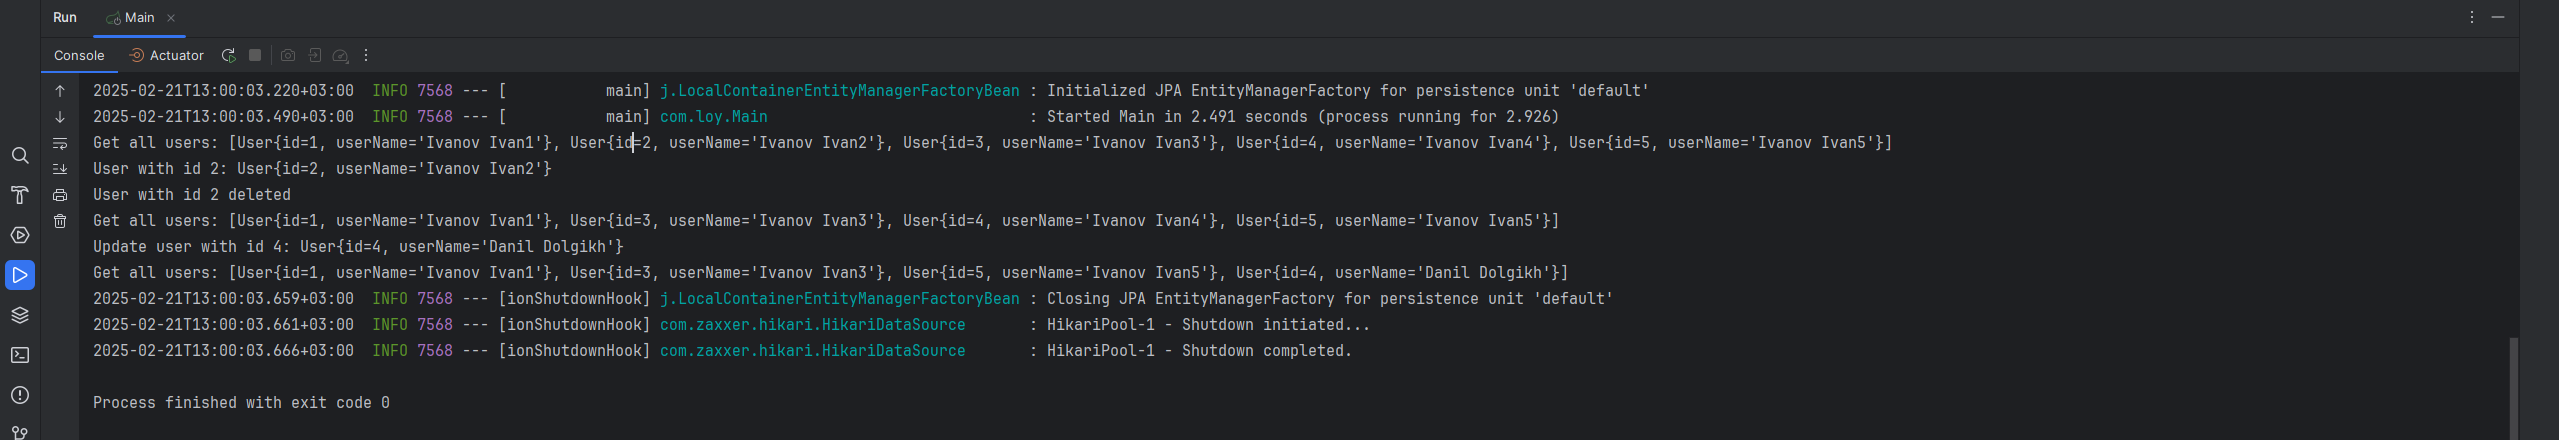
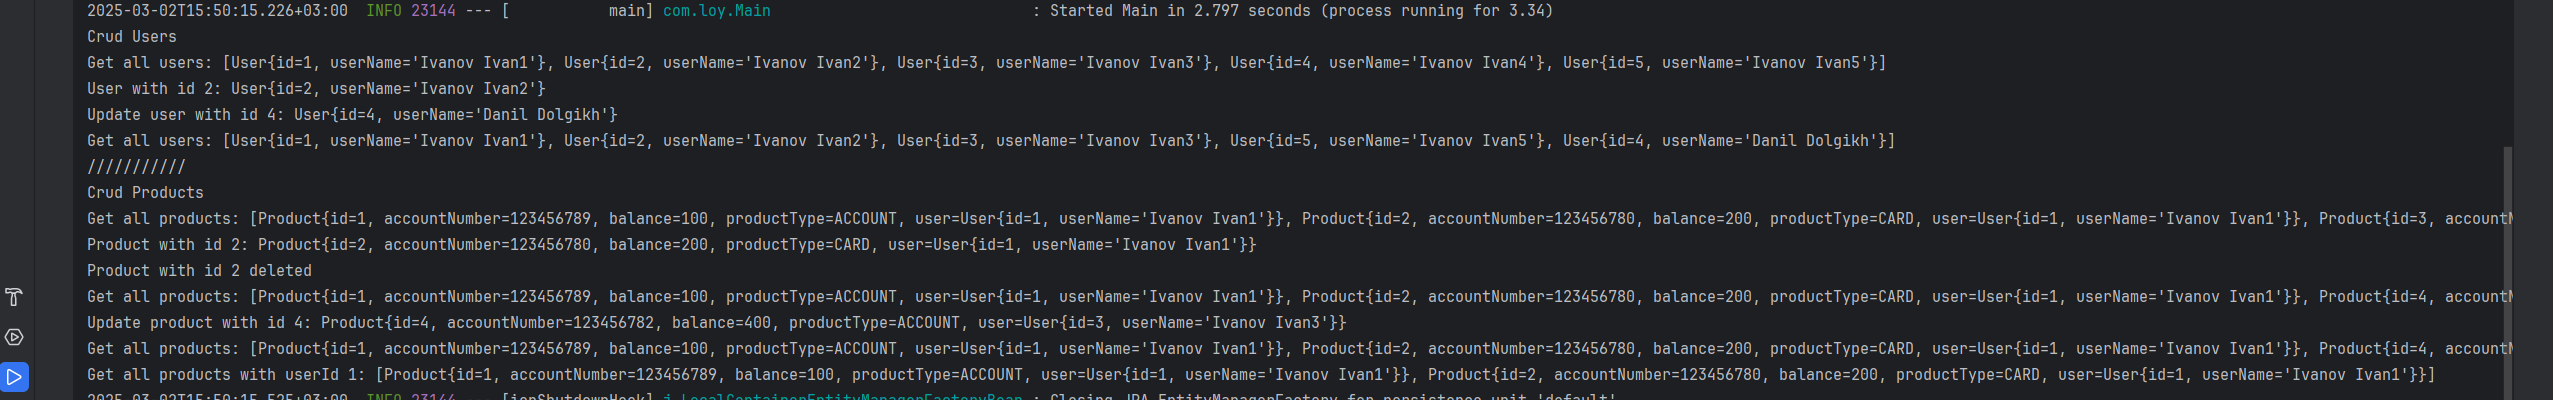
Add solve

diff --git a/sping-task/src/main/java/com/loy/Main.java b/sping-task/src/main/java/com/loy/Main.java
@@ -1,28 +1,46 @@
 package com.loy;
 
 
+import com.loy.model.Product;
+import com.loy.model.ProductType;
 import com.loy.model.User;
+import com.loy.service.ProductService;
 import com.loy.service.UserService;
 import lombok.RequiredArgsConstructor;
 import org.springframework.boot.CommandLineRunner;
 import org.springframework.boot.SpringApplication;
 import org.springframework.boot.autoconfigure.SpringBootApplication;
 
+import java.util.HashSet;
+
 @SpringBootApplication
 @RequiredArgsConstructor
 public class Main implements CommandLineRunner {
     private final UserService userService;
+    private final ProductService productService;
 
     public static void main(String[] args) {
         SpringApplication.run(Main.class, args);
     }
+
     public void run(String... args) {
+        System.out.println("Crud Users");
         System.out.println("Get all users: " + userService.getAllUsers());
         System.out.println("User with id 2: " + userService.getUser(2));
-        userService.deleteUser(new User(2L, "Ivanov Ivan2"));
-        System.out.println("User with id 2 deleted");
+        System.out.println("Update user with id 4: " + userService.updateUser(new User(4L, "Danil Dolgikh", new HashSet<>())));
         System.out.println("Get all users: " + userService.getAllUsers());
-        System.out.println("Update user with id 4: " + userService.updateUser(new User(4L, "Danil Dolgikh")));
-        System.out.println("Get all users: " + userService.getAllUsers());
+
+        System.out.println("///////////");
+
+        System.out.println("Crud Products");
+        System.out.println("Get all products: " + productService.getAllProducts());
+        System.out.println("Product with id 2: " + productService.getProduct(2));
+        productService.deleteProduct(new Product(3L, 123456780L, 300L, ProductType.ACCOUNT, new User(2L, "Ivanov Ivan2", new HashSet<>())));
+        System.out.println("Product with id 2 deleted");
+        System.out.println("Get all products: " + productService.getAllProducts());
+        System.out.println("Update product with id 4: " + productService.updateProduct(
+                new Product(4L, 123456782L, 400L, ProductType.ACCOUNT, new User(3L, "Ivanov Ivan3", new HashSet<>()))));
+        System.out.println("Get all products: " + productService.getAllProducts());
+        System.out.println("Get all products with userId 1: " + productService.getAllByUserId(1));
     }
 }

diff --git a/sping-task/src/main/java/com/loy/service/ProductService.java b/sping-task/src/main/java/com/loy/service/ProductService.java
@@ -1,0 +1,45 @@
+package com.loy.service;
+
+import com.loy.dao.ProductDao;
+import com.loy.model.Product;
+import lombok.RequiredArgsConstructor;
+import org.springframework.stereotype.Service;
+
+import java.util.List;
+
+@Service
+@RequiredArgsConstructor
+public class ProductService {
+    private final ProductDao productDao;
+
+    public Product createProduct(Product product) {
+        if (product.getId() != null) {
+            throw new IllegalArgumentException("When product create id must be null");
+        }
+        return productDao.save(product);
+    }
+
+    public Product getProduct(long id) {
+        return productDao.findById(id).orElseThrow(() -> new RuntimeException("Product with id: " + id + " not found"));
+    }
+
+    public List<Product> getAllByUserId(long userId) {
+        return productDao.findAllByUser_Id(userId);
+    }
+
+    public List<Product> getAllProducts() {
+        return productDao.findAll();
+    }
+
+    public Product updateProduct(Product product) {
+        if(product.getId() == null) {
+            throw new IllegalArgumentException("When product create id must not be null");
+        }
+        return productDao.save(product);
+    }
+
+    public void deleteProduct(Product product) {
+        productDao.delete(product);
+    }
+
+}

diff --git a/sping-task/src/main/java/com/loy/model/Product.java b/sping-task/src/main/java/com/loy/model/Product.java
@@ -1,0 +1,44 @@
+package com.loy.model;
+
+import jakarta.persistence.*;
+import lombok.AllArgsConstructor;
+import lombok.Getter;
+import lombok.NoArgsConstructor;
+import lombok.Setter;
+
+@NamedEntityGraph(
+        name = "Product.withUser",
+        attributeNodes = @NamedAttributeNode("user")
+)
+@Entity
+@Table(name = "products")
+@AllArgsConstructor
+@NoArgsConstructor
+@Getter
+@Setter
+public class Product {
+    @Id
+    @GeneratedValue(strategy = GenerationType.AUTO)
+    private Long id;
+    @Column(name = "account_number")
+    private Long accountNumber;
+    @Column(name = "balance")
+    private Long balance;
+    @Enumerated(EnumType.STRING)
+    @Column(name = "product_type")
+    private ProductType productType;
+    @ManyToOne
+    @JoinColumn(name = "user_id")
+    private User user;
+
+    @Override
+    public String toString() {
+        return "Product{" +
+                "id=" + id +
+                ", accountNumber=" + accountNumber +
+                ", balance=" + balance +
+                ", productType=" + productType +
+                ", user=" + user +
+                '}';
+    }
+}

diff --git a/sping-task/src/main/java/com/loy/dao/ProductDao.java b/sping-task/src/main/java/com/loy/dao/ProductDao.java
@@ -1,0 +1,16 @@
+package com.loy.dao;
+
+import com.loy.model.Product;
+import org.springframework.data.jpa.repository.EntityGraph;
+import org.springframework.data.jpa.repository.JpaRepository;
+
+import java.util.List;
+
+public interface ProductDao extends JpaRepository<Product, Long> {
+
+    @EntityGraph("Product.withUser")
+    List<Product> findAllByUser_Id(long userId);
+
+    @EntityGraph("Product.withUser")
+    List<Product> findAll();
+}

diff --git a/sping-task/src/main/java/com/loy/model/User.java b/sping-task/src/main/java/com/loy/model/User.java
@@ -6,6 +6,8 @@ import lombok.Getter;
 import lombok.NoArgsConstructor;
 import lombok.Setter;
 
+import java.util.Set;
+
 @Entity
 @Table(name = "users")
 @AllArgsConstructor
@@ -18,6 +20,8 @@ public class User {
     private Long id;
     @Column(name = "user_name", unique = true)
     private String userName;
+    @OneToMany(mappedBy = "user")
+    private Set<Product> product;
 
     @Override
     public String toString() {

diff --git a/sping-task/src/main/java/com/loy/model/ProductType.java b/sping-task/src/main/java/com/loy/model/ProductType.java
@@ -1,0 +1,5 @@
+package com.loy.model;
+
+public enum ProductType {
+    ACCOUNT, CARD
+}

diff --git a/README.md b/README.md
@@ -1,17 +1,20 @@
-Скорректируйте ваш сервис:
+Доработайте сервис, пусть теперь он хранит продукты клиентов.
 
-- вместо имеющуейся сущности user сделайте Entity
+Хранение продуктов необходимо организовать аналогично ранее добавленным пользователям.
 
-- Подключите стартер Spring data jpa
+У каждого пользователя может быть несколько продуктов, но у каждого продукта один пользователь.
 
-- вынесите все настройки в файл application.yml/properties
+Продукт клиента: id, номер счета, баланс, тип продукта (счет, карта), userId.
 
-- опишите repository для работы с сущностью, можете использовать Query если посчитаете нужным
+Сервис должен хранить продукты.
 
-- исправте методы UserService на работу с repository
+Сервис должен давать возможность: запросить все продукты по userId, запросить продукт по productId.
 
-- опишите класс CommandLineRunner и выполните возможные операции
-
-- добавте в проект миграцию для создания таблиц базы, инициализируйте тестовый набор данных в бд
-
+Все изменения в БД выполняются через инструмент миграции, добавленный ранее
+ 
 Скрин консоли: ![img_1.png](img_1.png)
+
+
+Скрин консоли с ```  jpa:
+show-sql: true```: 
+![img.png](img.png)
